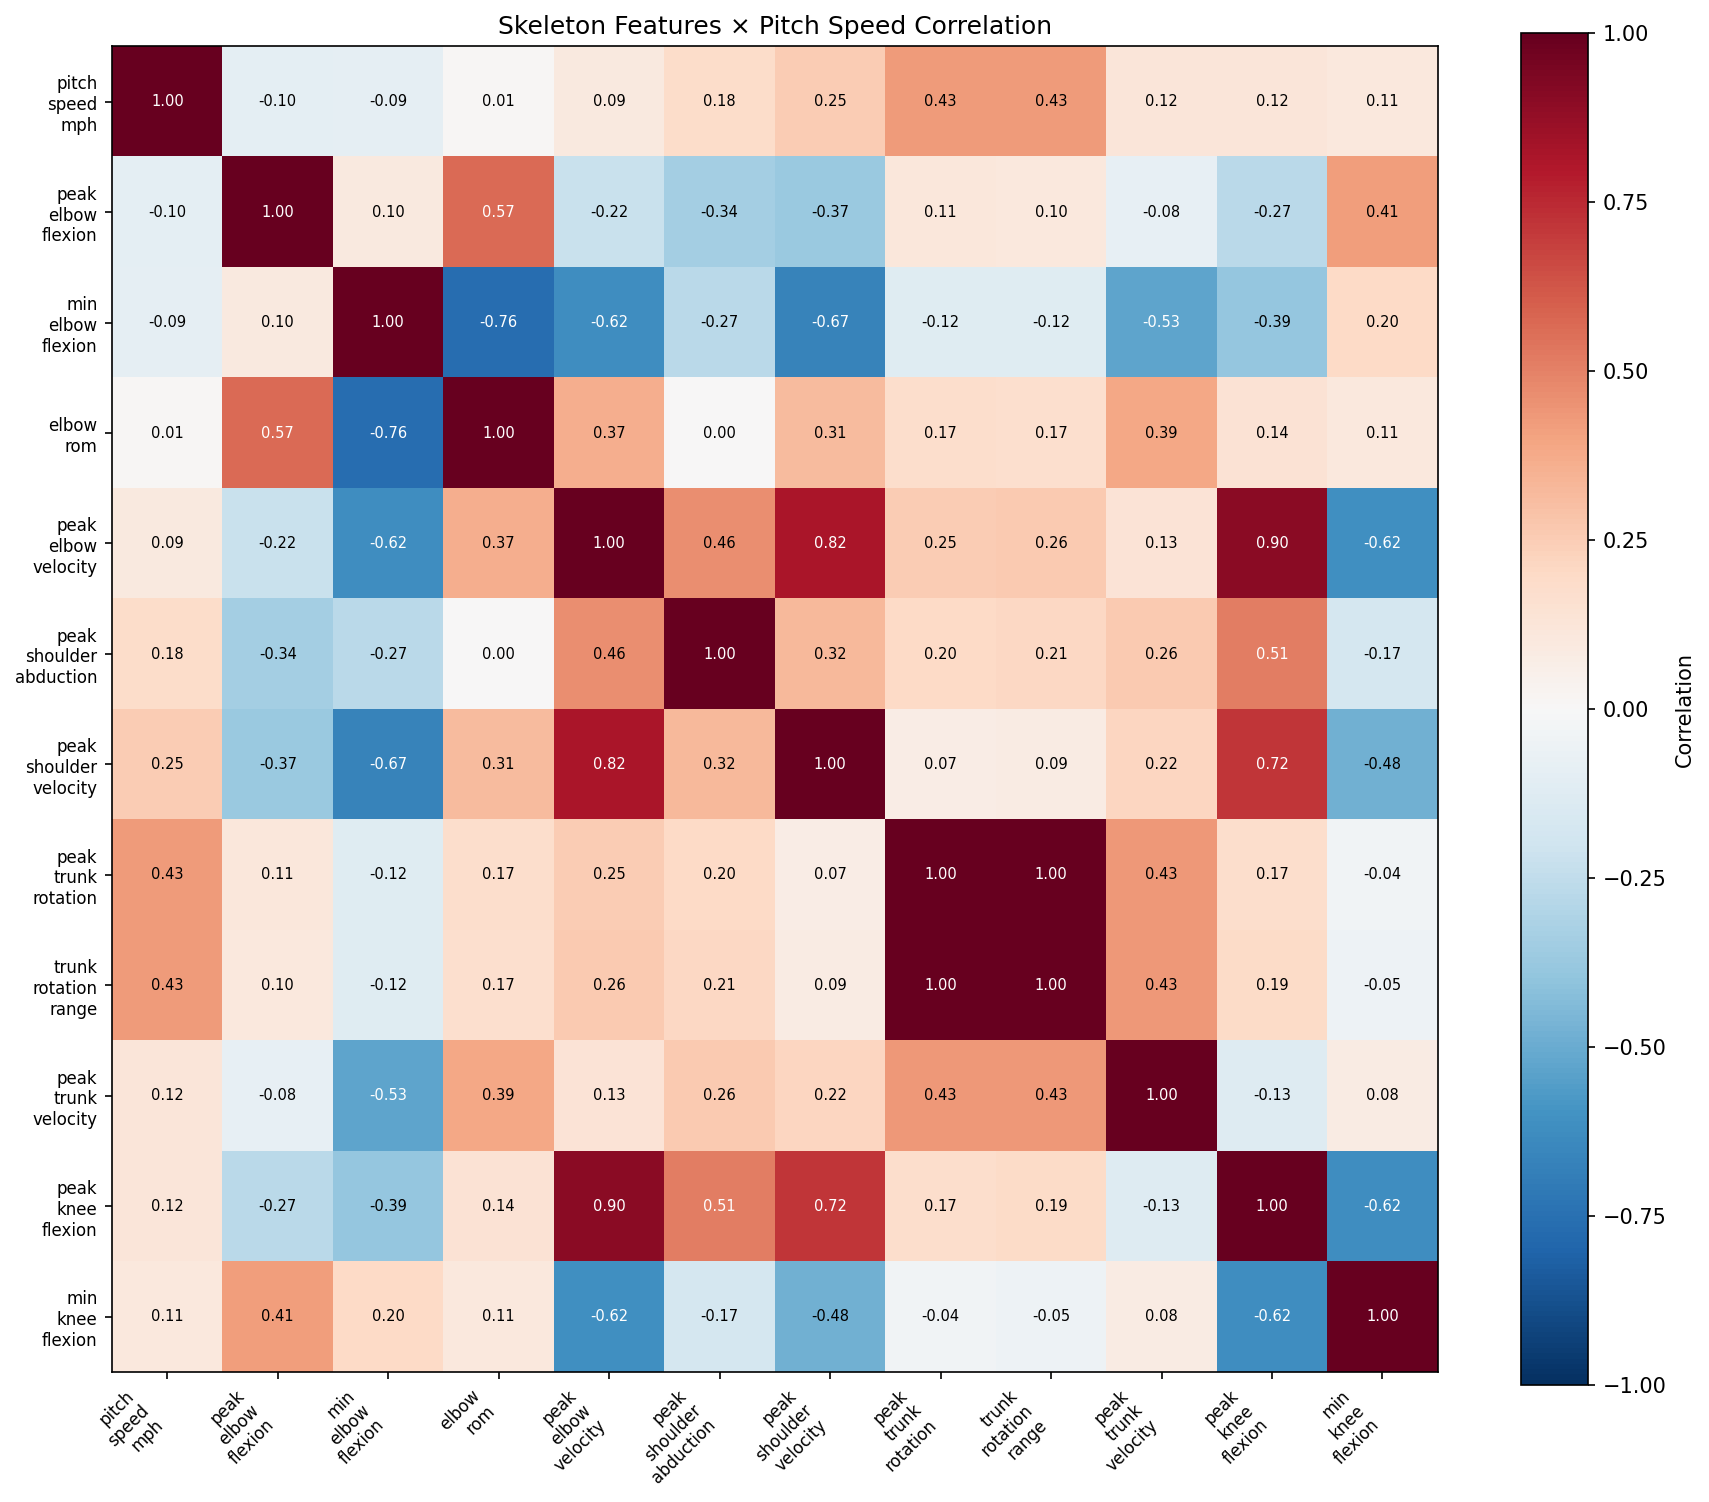
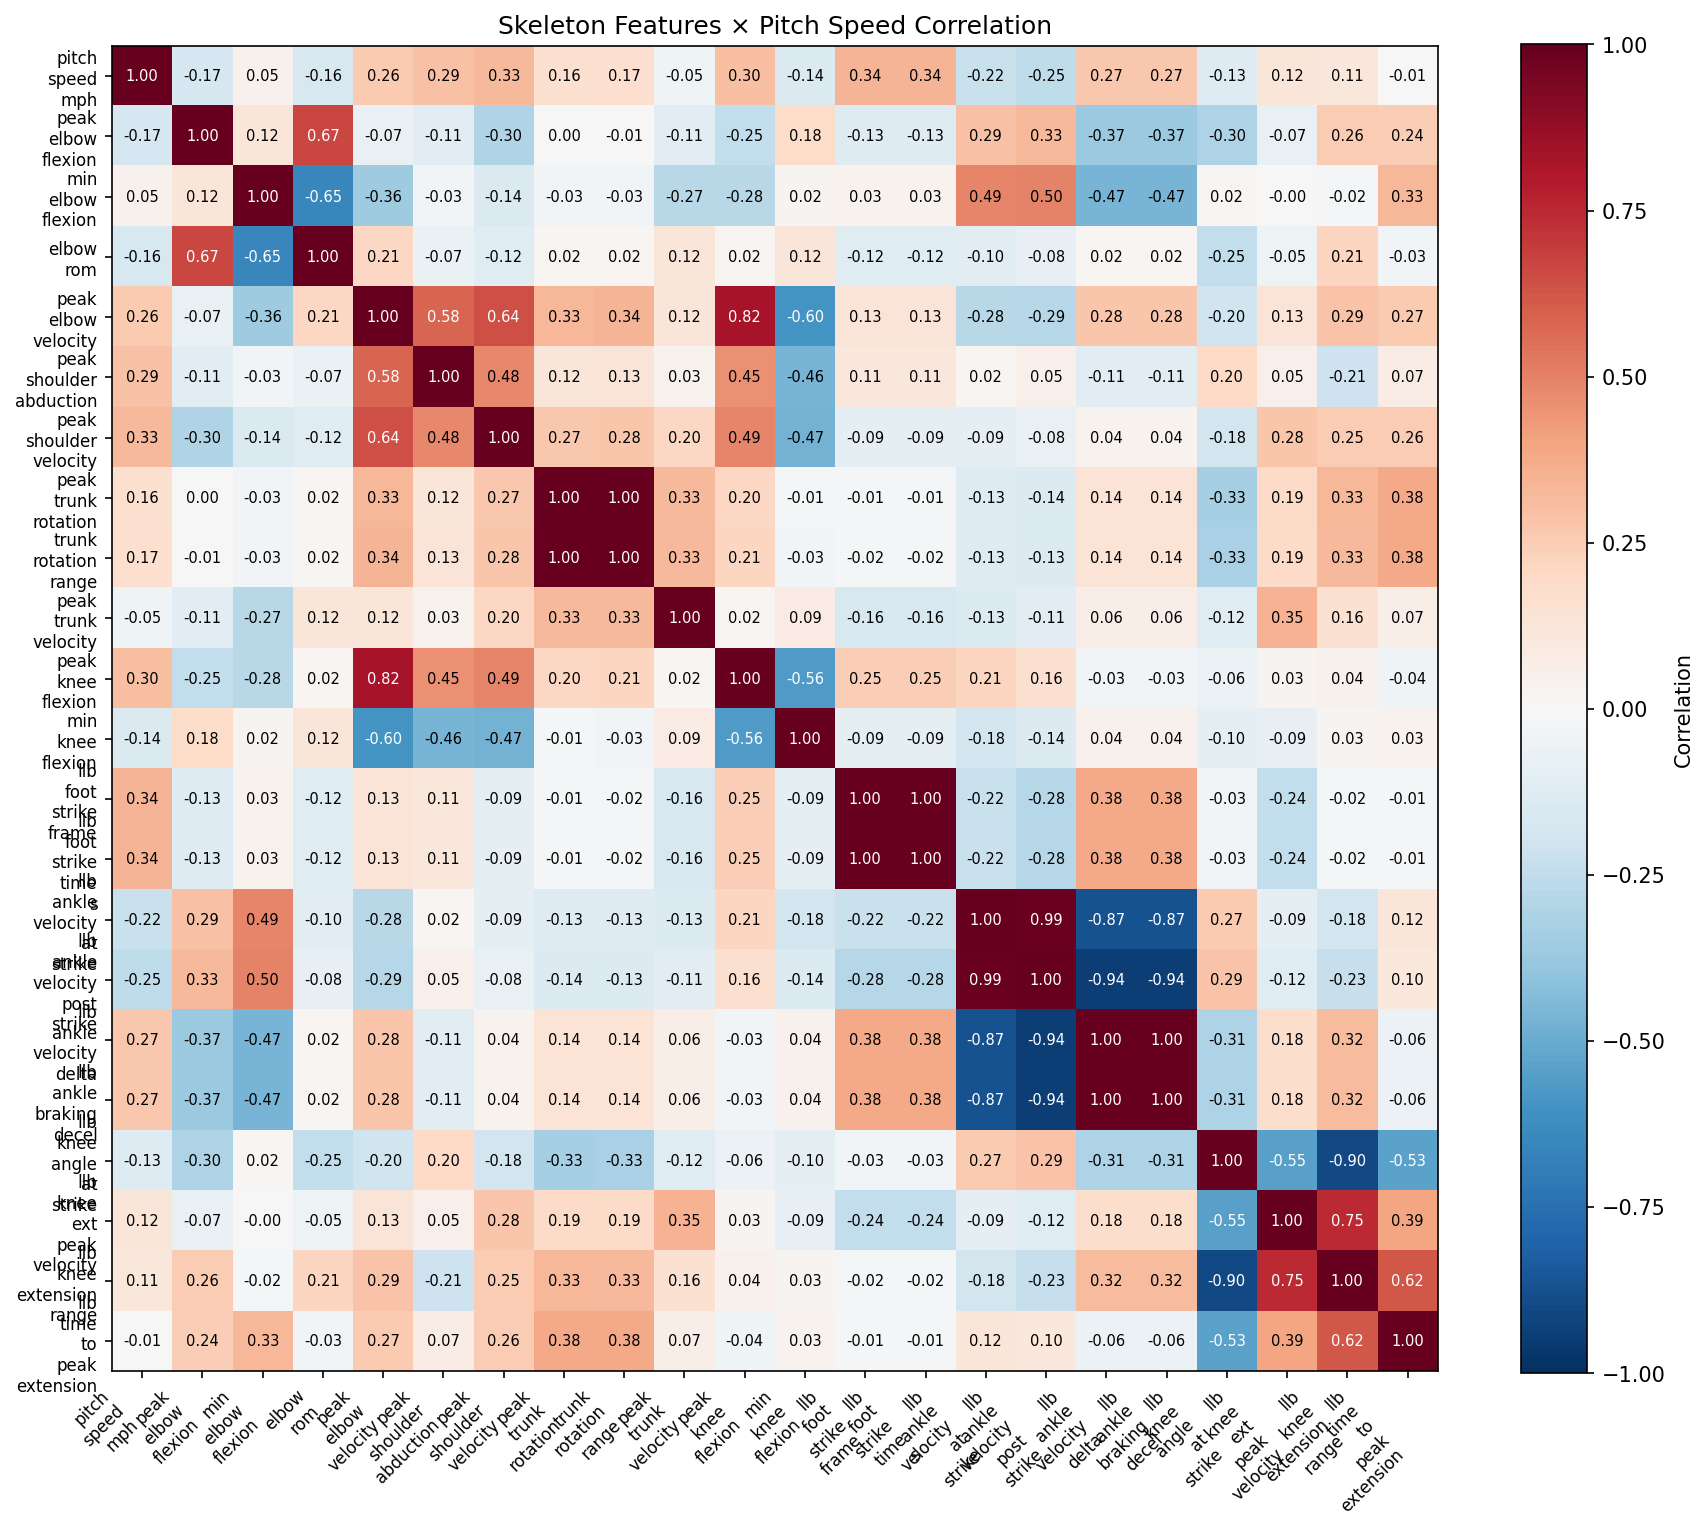
Add Step 5: Lead Leg Block analysis to README
- Add LLB pipeline step and results section with hypothesis,
  methodology, and quartile bar chart
- Update scatter/correlation plots with 41-sample LLB features
- Update usage command to --download 40

diff --git a/README.md b/README.md
@@ -10,6 +10,7 @@ Biomechanical skeleton analysis pipeline for baseball pitching and hitting motio
 | 2 | `skeleton_video.py` | MediaPipe Pose detection on video → skeleton overlay & keypoint CSV |
 | 3 | `skeleton_analysis.py` | Joint angle & angular velocity extraction from C3D data |
 | 4 | `statcast_correlation.py` | Skeleton features × pitch speed / exit velocity correlation |
+| 5 | `statcast_correlation.py` | Lead Leg Block analysis — foot strike detection, ankle braking & knee extension vs speed |
 
 ## Results
 
@@ -54,6 +55,22 @@ Correlation between biomechanical features and pitch speed / exit velocity acros
 
 ![Scatter](data/output/scatter_pitching.png)
 
+### Step 5: Lead Leg Block Analysis
+
+**Hypothesis**: Pitchers who "block" their lead leg more effectively at foot strike transfer more energy up the kinetic chain → higher pitch speed.
+
+The Lead Leg Block (LLB) module detects foot strike from heel marker trajectory, then measures:
+- **Ankle braking**: horizontal velocity change at foot strike (how hard the front foot "plants")
+- **Knee extension velocity**: how quickly the lead knee straightens after ground contact
+
+These features are extracted from 41 Driveline OBP athletes (71.3–93.1 mph) and correlated with pitch speed (scatter plots updated in Step 4 above).
+
+**LLB metrics by speed quartile** — do faster pitchers block harder?
+
+![LLB Profile](data/output/llb_profile_pitching.png)
+
+> The same functions work for hitting (front foot block → bat speed). Batting analysis is planned for the next phase.
+
 ## Setup
 
 ```bash
@@ -88,8 +105,8 @@ python skeleton_video.py --input data/videos/batting.mp4
 python skeleton_analysis.py --mode pitching
 python skeleton_analysis.py --mode hitting
 
-# Step 4: Correlation analysis (downloads additional C3D files)
-python statcast_correlation.py --mode pitching --download 15
+# Step 4-5: Correlation + Lead Leg Block analysis (downloads additional C3D files)
+python statcast_correlation.py --mode pitching --download 40
 ```
 
 ## Data Sources & Credits
